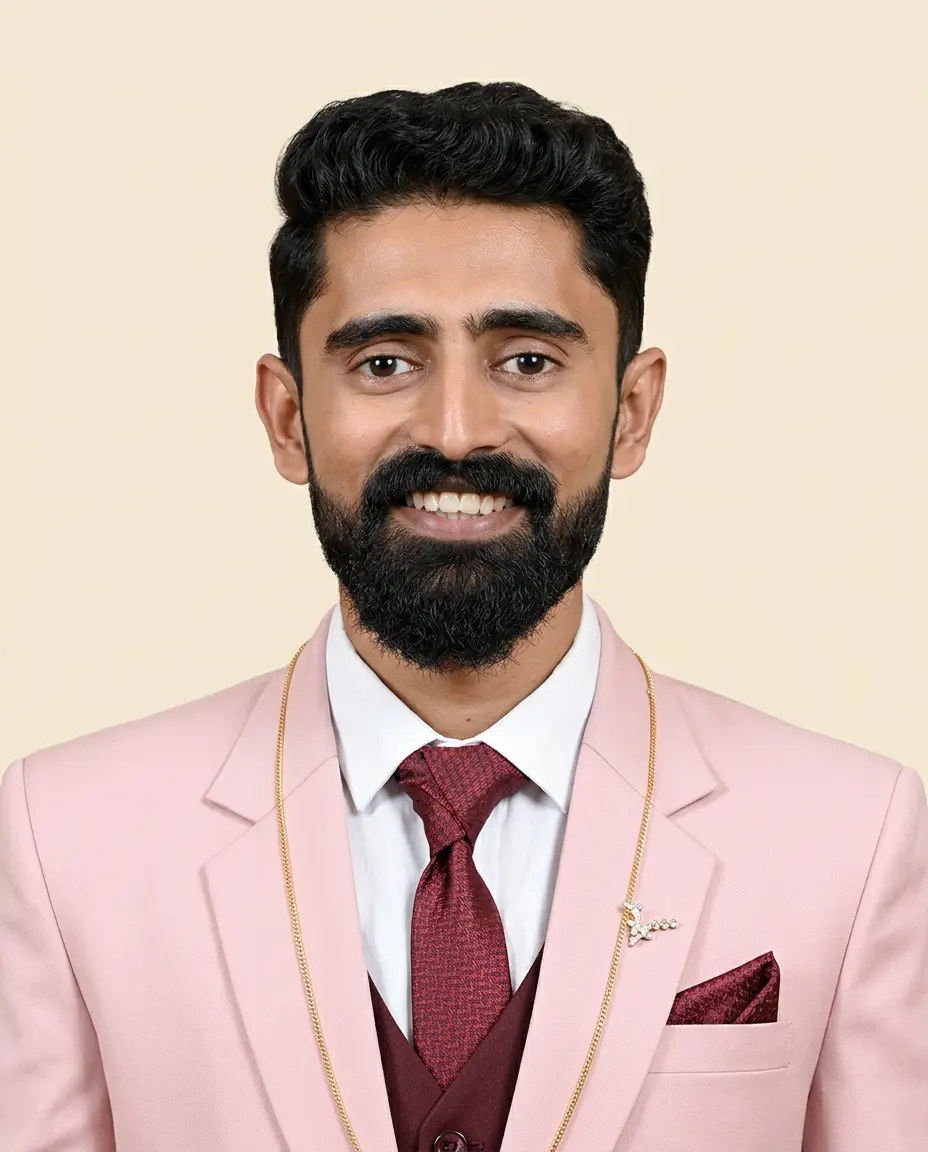
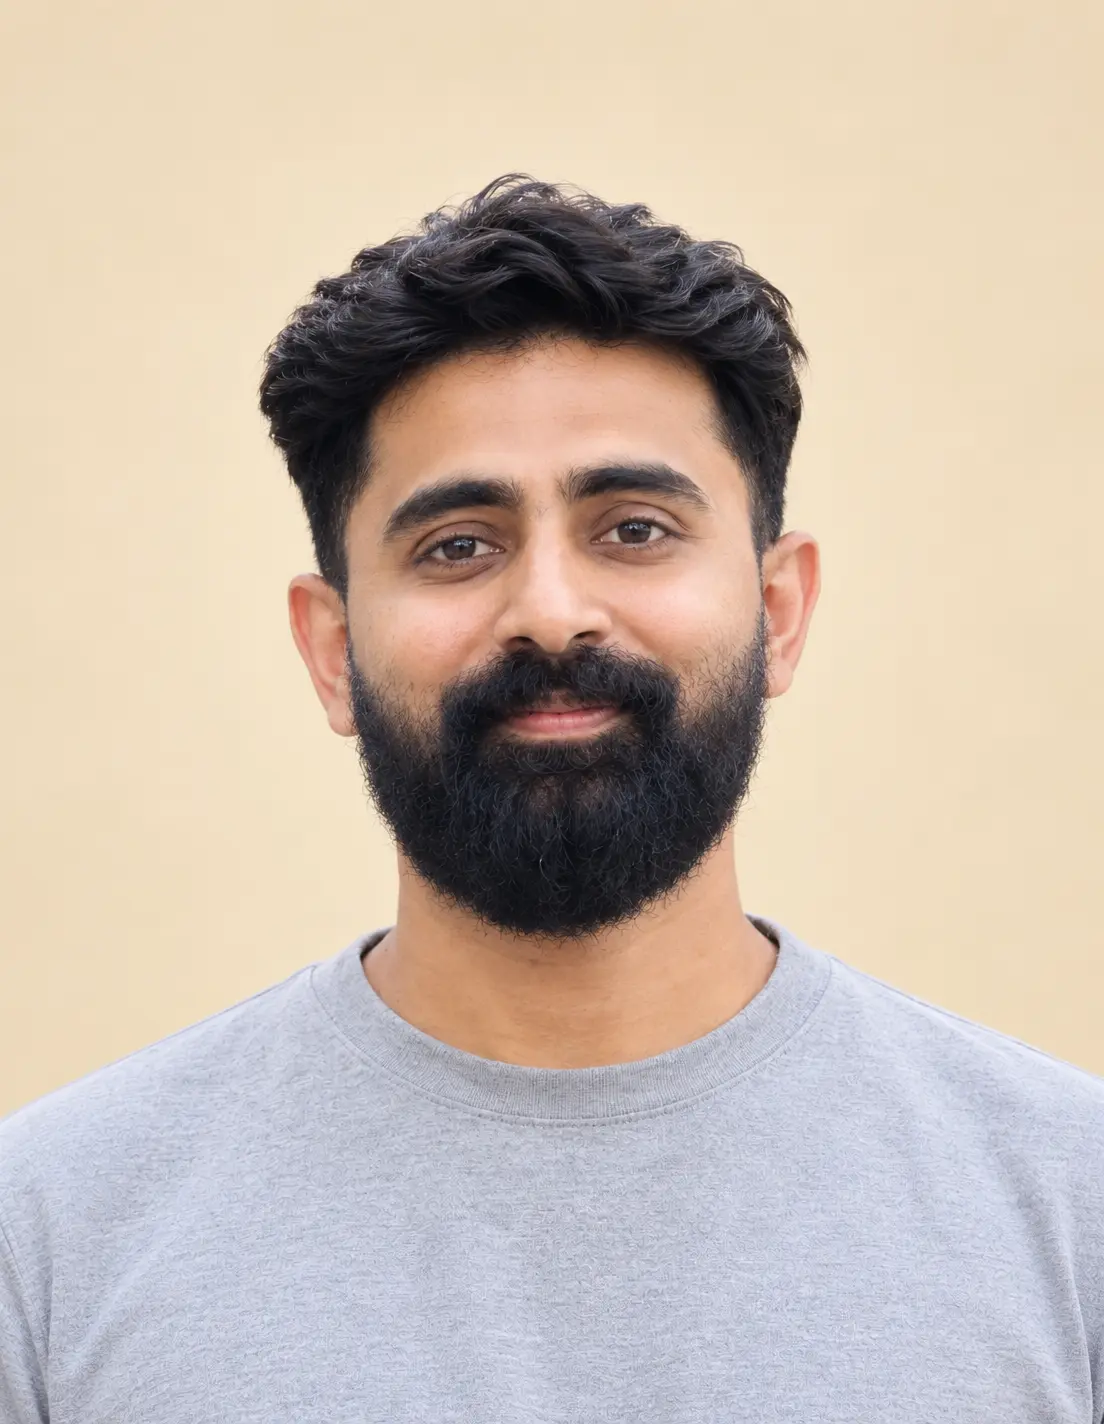
Update father's name and rename Kids Team to Ring Bearers

diff --git a/src/routes/index.tsx b/src/routes/index.tsx
@@ -297,7 +297,7 @@ const families = [
     groups: [
       {
         label: "Parents",
-        people: ["Varghese Chacko & Leelamma Chacko"],
+        people: ["T.V Chacko & Leelamma Chacko"],
       },
       {
         label: "Siblings",
@@ -629,7 +629,7 @@ function Invitation() {
             </p>
             <h3 className="font-script mt-3 text-5xl leading-tight text-foreground sm:text-6xl">Abin Jacob</h3>
             <p className="mt-4 text-xl leading-loose text-muted-foreground italic">
-              S/o Varghese Chacko &amp; Leelamma Chacko
+              S/o T.V Chacko &amp; Leelamma Chacko
               <br />
               Thottiyil House, Kadayanikkadu, Kottayam
             </p>
@@ -743,7 +743,6 @@ function Invitation() {
 
       {/* Kids */}
       <section className="relative z-10 border-b border-primary/20 px-6 py-16 sm:py-24">
-        <SectionTitle title="Wishes From" />
         <KidsTeam kids={kidsTeam} />
       </section>
 

diff --git a/src/components/WeddingParty.tsx b/src/components/WeddingParty.tsx
@@ -150,8 +150,8 @@ export function KidsTeam({
   return (
     <div className="mt-12">
       <div className="font-caps mb-5 flex items-center justify-center gap-2.5 px-6 text-[0.8rem] font-medium tracking-[0.22em] text-primary uppercase">
-        <span className="text-base leading-none">🌸</span>
-        <span>Our Kids Team</span>
+        <span className="text-base leading-none">💍</span>
+        <span>Ring Bearers</span>
       </div>
       <div className="flex flex-col items-center gap-3.5 px-6 py-2 sm:gap-4">
         {lead ? (
